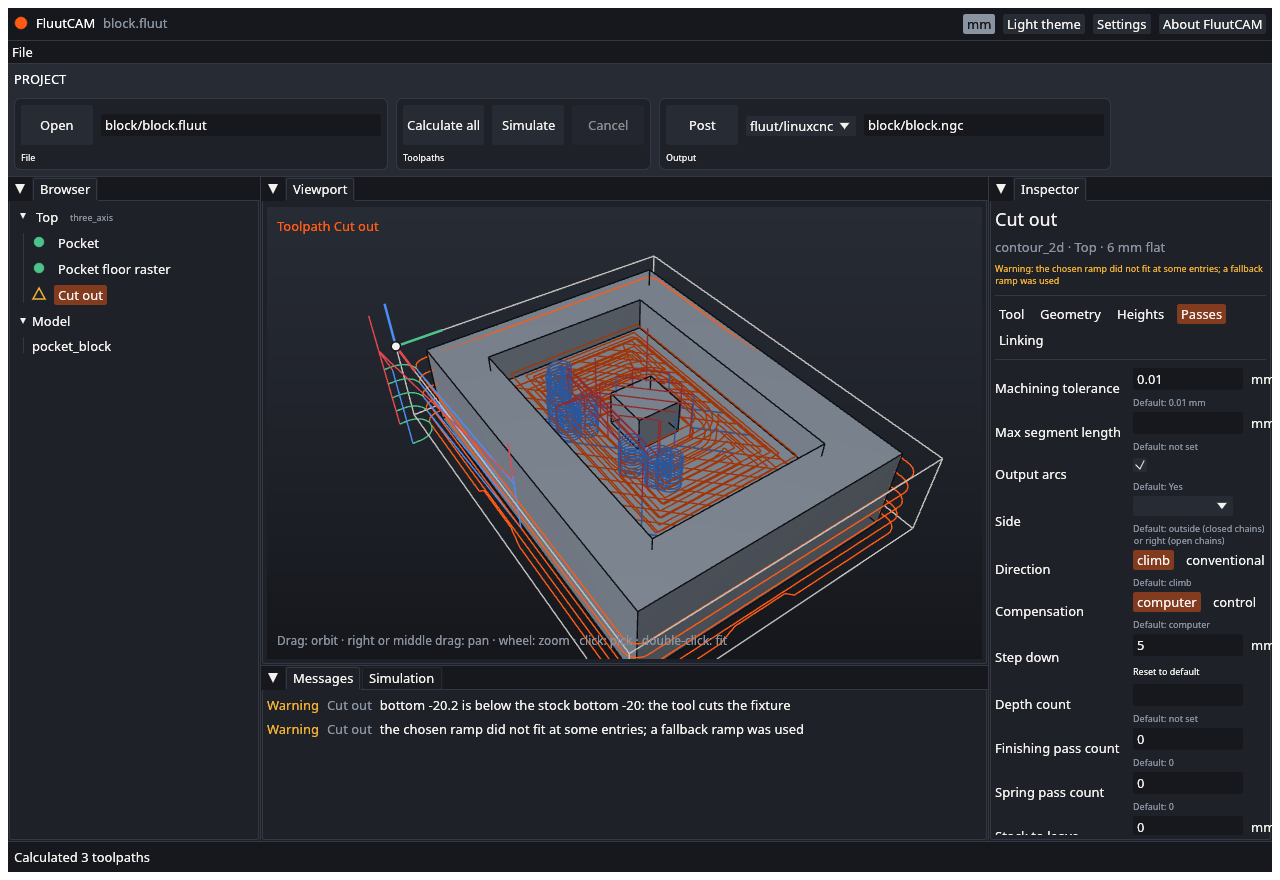
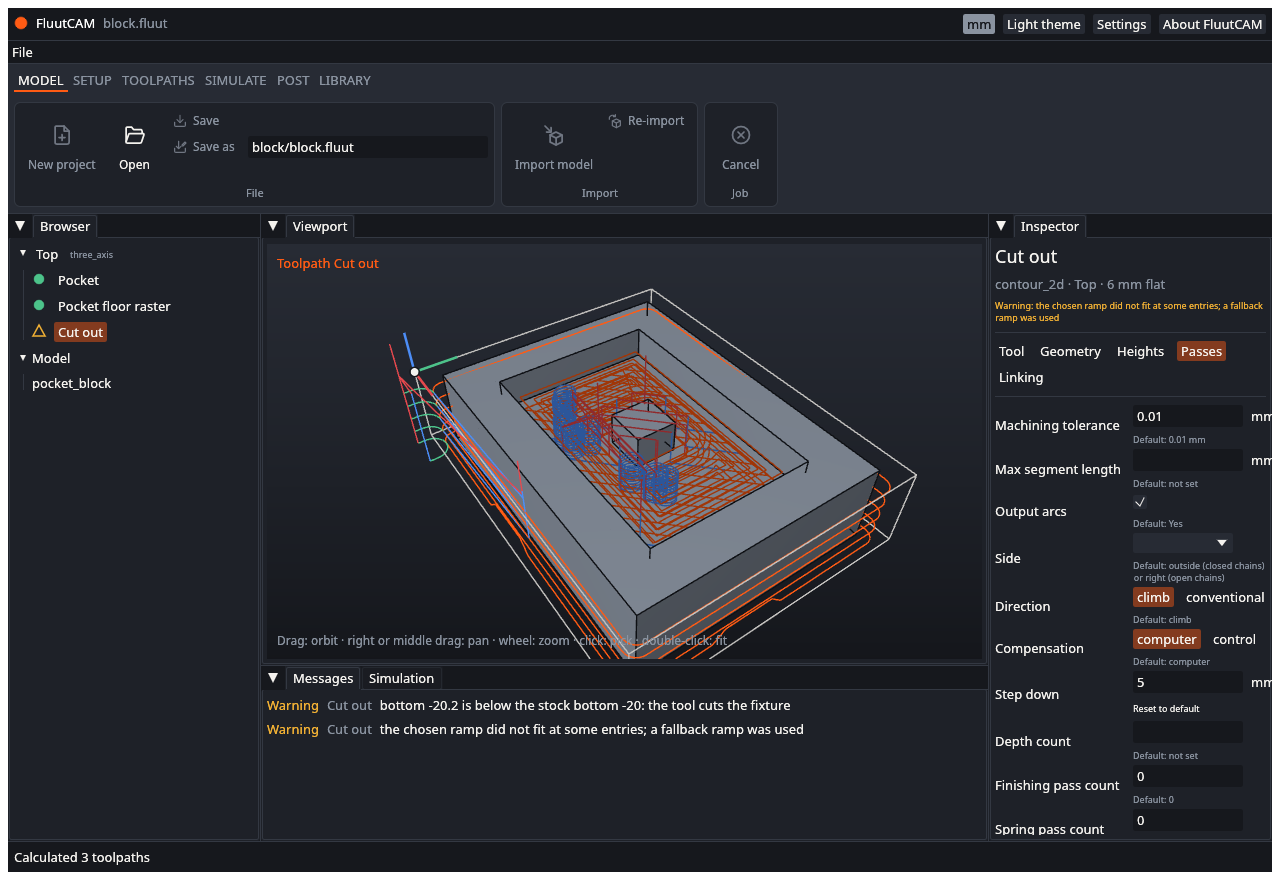
Update the wiki for the new ribbon and regenerate screenshots
The ribbon now has stages; pages name them and say which buttons are not connected yet. The reference generator skips the ribbon's command ids, which look like diagnostic codes.

diff --git a/crates/fluut-model/examples/wiki_reference.rs b/crates/fluut-model/examples/wiki_reference.rs
@@ -833,6 +833,10 @@ fn diagnostics(cat: &BTreeMap<String, String>) -> BTreeMap<String, Diag> {
         source_files(&d.join("src"), &mut files);
     }
     for f in files {
+        // The ribbon's command ids look like codes but are not diagnostics.
+        if f.ends_with("vm/ribbon.rs") || f.ends_with("vm\ribbon.rs") {
+            continue;
+        }
         for x in scan_source(&read(&f)) {
             let e = found.entry(x.code.clone()).or_insert_with(|| x.clone());
             if e.message.is_none() {

diff --git a/docs/wiki/Interface-Tour.md b/docs/wiki/Interface-Tour.md
@@ -4,7 +4,7 @@ This page names every part of the FluutCAM window, so the other pages can say "t
 
 ![The FluutCAM window with a project open](images/reference-project.png)
 
-> **The ribbon is being rebuilt.** The row of buttons under the title (Open, Calculate all, Simulate, Post) is the first version of a ribbon. A new ribbon will replace it, and it will also take over the temporary **File** menu described below. The commands stay; where they sit will change. These pages are updated when it lands.
+> **The ribbon is still being wired up.** Its stages (Model, Setup, Toolpaths, Simulate, Post, Library) are there, but many buttons are greyed out with the tooltip "Coming soon". The temporary **File** menu below does the work those buttons will do. These pages are updated as the ribbon is connected.
 
 ## From top to bottom
 
@@ -31,11 +31,15 @@ This page names every part of the FluutCAM window, so the other pages can say "t
 
 Items that do not apply are greyed out, for example Save when no project is open.
 
-**Ribbon** (first version). Three groups of commands:
+**Ribbon.** Tabs choose a stage; each stage shows groups of commands. Hover a button to see its name and shortcut.
 
-- **File**: **Open** and a text box with the project file's path. Type or paste a path and press Open. Unlike the File menu's Open, this does not ask about unsaved changes.
-- **Toolpaths**: **Calculate all**, **Simulate** and **Cancel**.
-- **Output**: **Post**, a list of posts, and a text box with the output file's name.
+- **Model**: New project, **Open** with a text box for a project file's path, Save, Save as, Import model and Re-import. Only Open works so far; use the File menu for the rest. Unlike the File menu's Open, the typed path does not ask about unsaved changes.
+- **Setup**: new Setup buttons, Stock and Work zero. Not connected yet; use **File, Add Setup**.
+- **Toolpaths**: galleries of toolpath types for the selected Setup (not connected yet; use **File, Add toolpath**), **Calculate selected** and **Calculate all**.
+- **Simulate**: **Simulate** and the playback buttons (play or pause, step back, step forward).
+- **Post**: **Post**.
+- **Library**: Tools, Machines and Posts, not connected yet.
+- **Cancel** is at the right of every stage.
 
 **Panels.** Below the ribbon the window has these panels. Drag the lines between them to resize.
 

diff --git a/docs/wiki/Your-First-Project.md b/docs/wiki/Your-First-Project.md
@@ -1,6 +1,6 @@
 # Your first project
 
-This walk takes a STEP file to G-code. It uses the window as it is today, with the temporary **File** menu. A new ribbon will replace that menu; the steps stay the same, only the buttons move. See the [Interface tour](Interface-Tour) if a word is new.
+This walk takes a STEP file to G-code. It uses the window as it is today, with the temporary **File** menu. The ribbon is being wired up and will take over from that menu; the steps stay the same, only the buttons move. See the [Interface tour](Interface-Tour) if a word is new.
 
 **You need:**
 
@@ -70,7 +70,7 @@ See [Calculate and simulate](Calculate-and-Simulate).
 
 ## 7. Choose a post and an output file
 
-In the ribbon, **Output** has a list of posts and a file name. The list starts at **fluut/linuxcnc**. Pick the one that matches your controller: `fluut/linuxcnc` for LinuxCNC, `fluut/grbl` for Grbl, or `fluut/gcode` for plain G-code. The file name starts as `my-part.ngc` in the project folder; change it if you like.
+In the ribbon's **Post** stage, find the list of posts and the file name. The list starts at **fluut/linuxcnc**. Pick the one that matches your controller: `fluut/linuxcnc` for LinuxCNC, `fluut/grbl` for Grbl, or `fluut/gcode` for plain G-code. The file name starts as `my-part.ngc` in the project folder; change it if you like.
 
 ## 8. Post the G-code
 

diff --git a/docs/wiki/Known-Limits.md b/docs/wiki/Known-Limits.md
@@ -6,7 +6,7 @@ If something you need is not here and does not work, [tell us](https://github.co
 
 ## The window
 
-The window has a temporary **File** menu and a first ribbon. A new ribbon is being built and will replace both. These are not yet in the window:
+The window has a temporary **File** menu and a ribbon that is only partly connected (a button greyed out with "Coming soon" is not wired yet). When the ribbon is complete it will replace the menu. These are not yet in the window:
 
 - **Picking curves and faces for a toolpath.** The Geometry tab shows the selection but cannot change it. So 2-D toolpaths (pocket, contour, chamfer, bore, drill and so on) need their curves or faces set in the project file; a 2-D toolpath added in the window reports "select drive curves or drive faces". Clicking a face in the viewport shows its id (for example `f-494.10`), which you can copy into the file. 3-D toolpaths need no picking.
 - **Editing heights, selections and points.** They show, read only. Numbers, choices and yes-or-no settings of a toolpath can be edited.

diff --git a/docs/wiki/README.md b/docs/wiki/README.md
@@ -33,6 +33,6 @@ renders the app headless, from the reference projects in `crates/fluut-cli/tests
 
 - Plain English for a hobbyist or small-shop machinist: short sentences, active voice. Explain a CAM term the first time it appears on a page.
 - Say only what the program does. Check it against the code or by running `fluut` or the app. Say "not yet" plainly for planned features, and add them to `Known-Limits.md`.
-- The ribbon is being rebuilt. Until it lands, the pages describe the temporary File menu and say the ribbon will replace it.
+- The ribbon is being wired up. Until it is complete, the pages describe the temporary File menu and say the ribbon will replace it.
 - Do not copy text, names, screenshots or workflows from other CAM products.
 - A test in the `UAT-*` pages changes together with the behaviour it tests.

diff --git a/docs/wiki/UAT.md b/docs/wiki/UAT.md
@@ -28,7 +28,7 @@ These are manual test scripts for FluutCAM. Use them to check a build before you
 
 Copy the page into an issue or a document if you want to tick the boxes. In the wiki the boxes cannot be saved.
 
-The ribbon is being rebuilt. The tests use the File menu and the buttons of the first ribbon by name. When the new ribbon lands these pages change with it.
+The ribbon is being wired up. The tests use the File menu and name the ribbon buttons (**Calculate all** is in the Toolpaths stage, **Simulate** in the Simulate stage, **Post** in the Post stage, **Open** in the Model stage). A button that is greyed out with "Coming soon" is not connected yet, so use the File menu for it. When the ribbon is fully connected these pages change with it.
 
 ## The areas
 

diff --git a/docs/wiki/Post-G-code.md b/docs/wiki/Post-G-code.md
@@ -5,7 +5,7 @@
 ## Post from the window
 
 1. Calculate first, or let **Post** do it: if a toolpath is out of date, FluutCAM calculates it before it posts.
-2. In the **Output** group of the ribbon, choose a post from the list. The list offers `fluut/linuxcnc`, `fluut/grbl` and `fluut/gcode`.
+2. In the **Post** stage of the ribbon, find the post list and output name (they may move as the ribbon is wired up). The list offers `fluut/linuxcnc`, `fluut/grbl` and `fluut/gcode`.
 3. Check the output file name in the text box next to it. It starts as the project name with `.ngc`, in the project folder (`my-part.ngc`). Change it if you want another name or place.
 4. Click **Post**.
 

diff --git a/docs/wiki/Calculate-and-Simulate.md b/docs/wiki/Calculate-and-Simulate.md
@@ -4,7 +4,7 @@
 
 ## Calculate
 
-Click **Calculate all** in the ribbon (the **Toolpaths** group). FluutCAM calculates every toolpath that is not up to date, in machining order, on a background thread, so the window stays usable.
+Click **Calculate all** in the ribbon (the **Toolpaths** stage). **Calculate selected** calculates only the selected toolpath. FluutCAM calculates every toolpath that is not up to date, in machining order, on a background thread, so the window stays usable.
 
 While it runs:
 

diff --git a/docs/wiki/Keyboard-Shortcuts.md b/docs/wiki/Keyboard-Shortcuts.md
@@ -36,4 +36,4 @@ On macOS, use **Cmd** where this page says **Ctrl**.
 | **Esc** | Closes an open menu |
 | **Enter** | In a number box in the inspector: applies the value |
 
-There are no other shortcuts yet, and you cannot change them. The new ribbon will bring its own; this page will list them.
+There are no other shortcuts yet, and you cannot change them. The ribbon shows the same Ctrl+N, Ctrl+O, Ctrl+S and Ctrl+Shift+S in its tooltips; it has no others yet.
